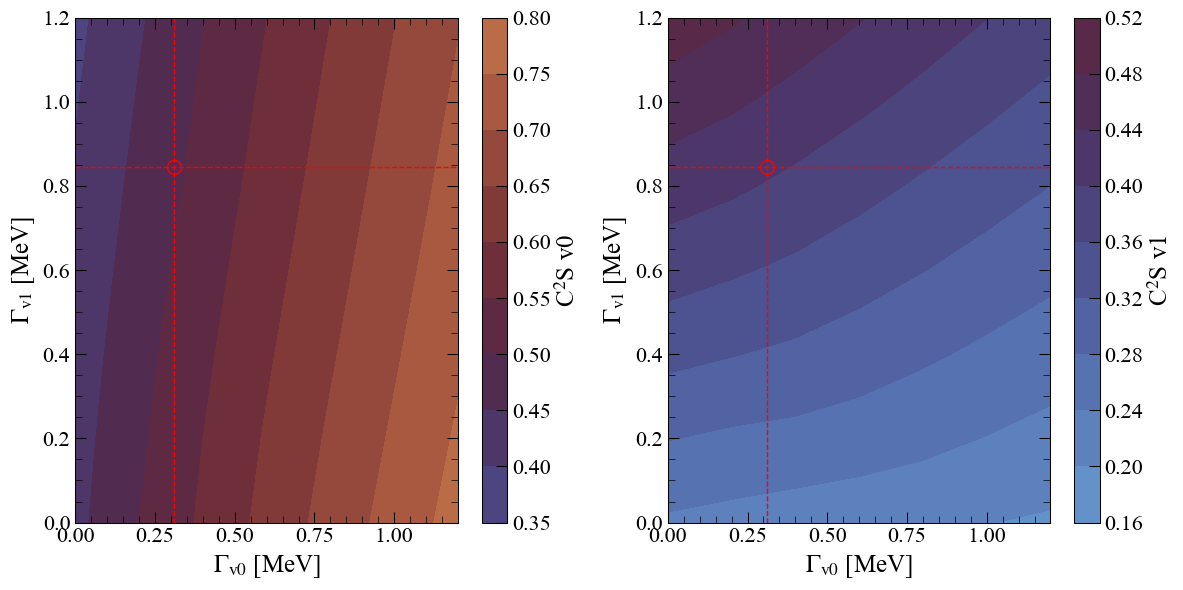
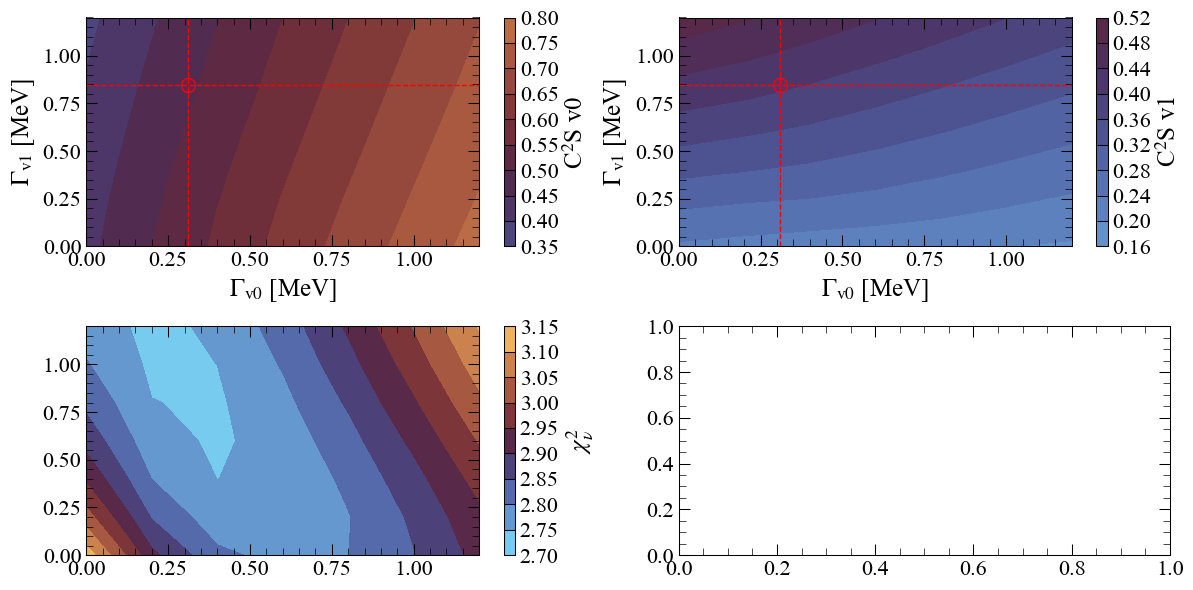
updates in plotting of systematic error for v0,1

diff --git a/Fits/dt/Macros/plot_iter_v01.py b/Fits/dt/Macros/plot_iter_v01.py
@@ -1,5 +1,5 @@
 import pyphysics as phys
-from pyphysics.actroot_interface import SFInterface
+from pyphysics.actroot_interface import SFInterface, FitInterface
 import numpy as np
 import uncertainties as un
 import uncertainties.unumpy as unp
@@ -11,8 +11,10 @@ g1s = np.arange(0, 1.4, 0.2)
 
 
 sfs = np.zeros((len(g0s), len(g1s), 2), dtype=object)
+chis = np.zeros((len(g0s), len(g1s)), dtype=float)
 for i, g0 in enumerate(g0s):
     for j, g1 in enumerate(g1s):
+        # SFs for the two states
         file = f"sfs_{g0:.2f}_{g1:.2f}"
         file_rebin = file + "_rebin"
         for k, f in enumerate([file, file_rebin]):
@@ -23,14 +25,18 @@ for i, g0 in enumerate(g0s):
                 model = inter.get_model("v1", "l = 1")
             if model is not None:
                 sfs[i, j, k] = model.fSF
+        # Chi2
+        file_fit = f"fit_{g0:.2f}_{g1:.2f}"
+        fit = FitInterface("./Outputs/Iter/" + file_fit + ".root")
+        chis[i, j] = fit.fChi / fit.fNdof
 ## Create mesh to plot
 X, Y = np.meshgrid(g0s, g1s, indexing="ij")
 
-fig, axs = plt.subplots(1, 2, figsize=(12, 6))
+fig, axs = plt.subplots(2, 2, figsize=(12, 6))
 vmin = 0
 vmax = 1
 for i in range(2):
-    ax: mplaxes.Axes = axs[i]
+    ax: mplaxes.Axes = axs[0, i]
     pcm = ax.contourf(
         X, Y, unp.nominal_values(sfs[:, :, i]), cmap="managua_r", vmin=vmin, vmax=vmax
     )
@@ -41,6 +47,10 @@ for i in range(2):
     ax.axhline(0.845, color="red", ls="--")
     ax.axvline(0.31, color="red", ls="--")
     ax.plot(0.31, 0.845, marker="o", ms=10, mec="red", mfc="none")
+
+ax = axs[1, 0]
+pcm = ax.contourf(X, Y, chis, cmap="managua_r")
+fig.colorbar(pcm, ax=ax, label=r"$\chi^{2}_{\nu}$")
 
 fig.tight_layout()
 fig.savefig("./Outputs/iter_v01.png")

diff --git a/Publications/dt/mairle.py b/Publications/dt/mairle.py
@@ -6,7 +6,7 @@ import matplotlib.axes as mplaxes
 def eso_splitting(z: int, a: int, t: float, t0: float, isProton: bool = False) -> float:
     eso16O = 6.5  # from G. Mairle paper of 1974 in page 254
     da = -0.6  # MeV
-    db = 3.38
+    db = -3.38
     dc = -0.10 if isProton else 0
     eso = (
         eso16O
